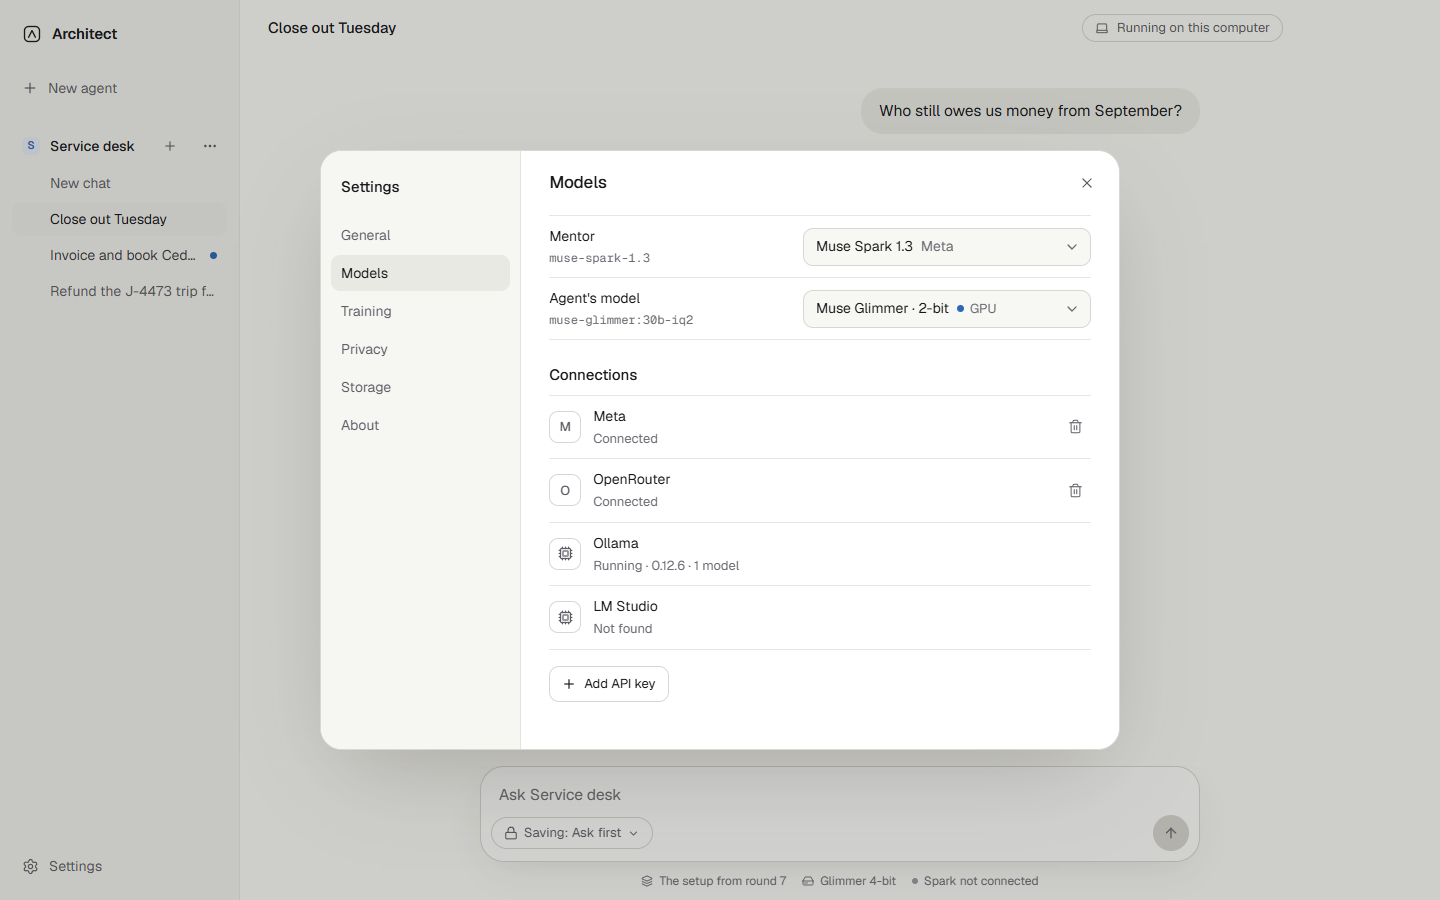
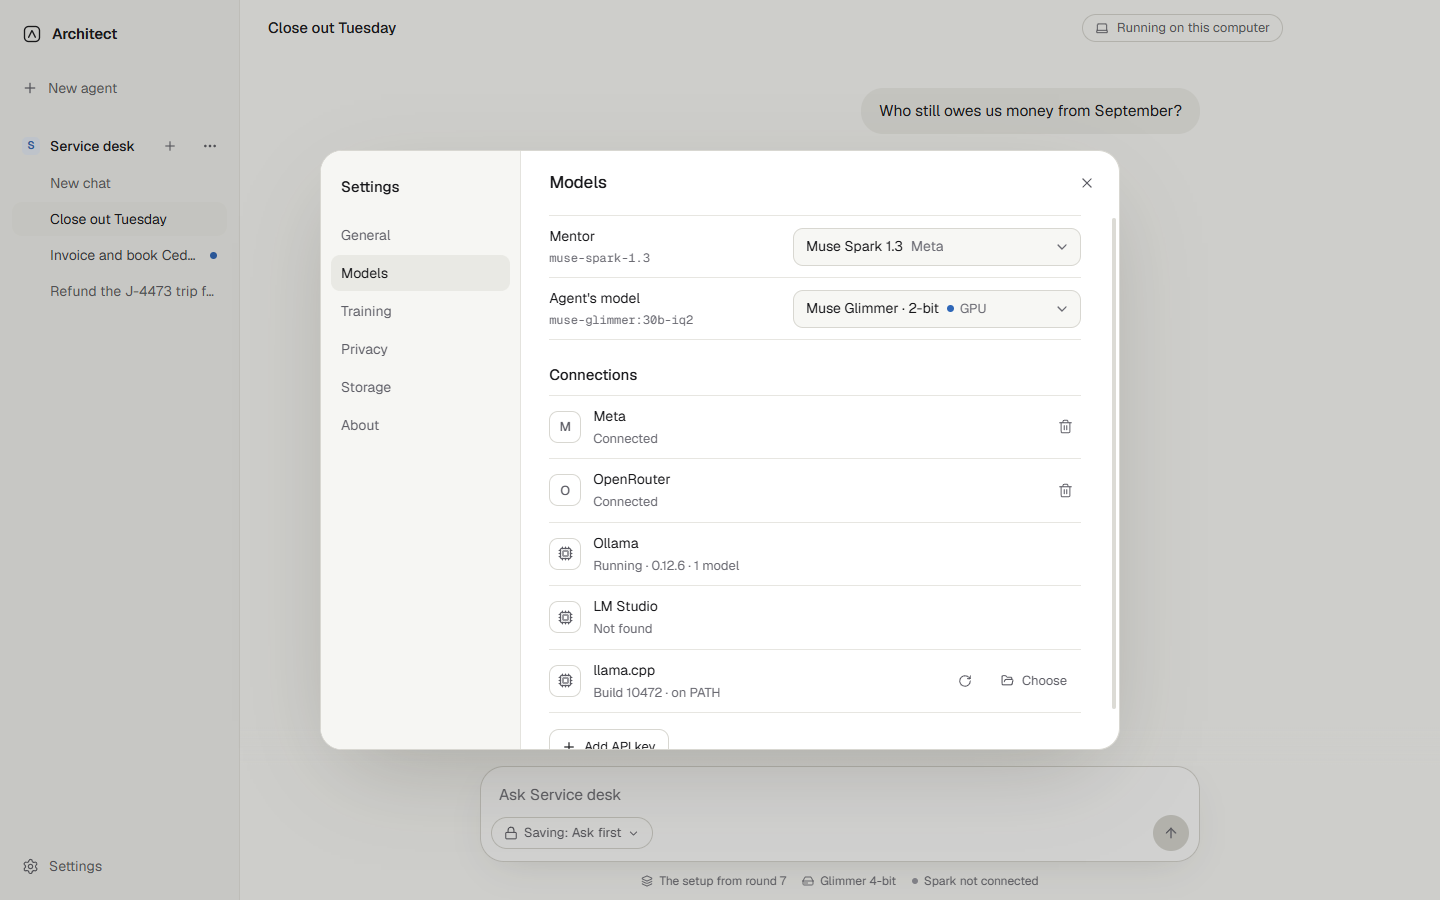
docs: the review's fixes in decision 041 and progress, and Settings with the llama.cpp row

diff --git a/docs/DECISIONS.md b/docs/DECISIONS.md
@@ -321,10 +321,11 @@ An ask-mode write can fail instead of waiting: a message sent with `approvals: '
 **Context.** Decisions 031 and 035 built the adapter runtime, and 038 named an adapter the way that runtime loads it, but nothing served one: a package with an adapter was refused at import, a version with one never opened, and the installation checks compared the adapter's `base_digest` with the digest Ollama's API reports, which Ollama derives from the model's manifest, not from its GGUF weights. The CLI will run graduates through the same agent host as the workspace. This refines 035 and 038.
 **Decision.**
 - *Which runtime.* The version decides it, not the installation. A version with an adapter runs on llama.cpp, with the base from Ollama's store under the name its installation gives it; a version without one runs on the installation's runtime, as before. So the installation of a version with an adapter stays bound to Ollama (`runtime: 'ollama'`, the base's name in Ollama's store), `llama.cpp` stays out of `BINDABLE_RUNTIMES`, and one agent rolls back from a version with an adapter to one without, or the other way, with nothing rebound. A version with an adapter whose installation names another runtime needs attention and isn't opened. This replaces 038's reading that such an installation would serve its model with llama.cpp.
-- *Before serving.* The runtime's request carries the adapter's `base_digest` and its sha256. Before any start, the runtime refuses a base whose GGUF in Ollama's store has another digest and an adapter file whose sha256 differs (worked out again only when the file's size or time changes). The agent host checks both when it opens a version, and a mismatch blocks it with the reason and the way out. A missing llama-server or a base not yet downloaded lets the version open; a reply then says what is missing, so installing it needs no reopening.
+- *Before serving.* The runtime's request carries the adapter's `base_digest` and its sha256, and the version's context length. Before any start, the runtime refuses a base whose GGUF in Ollama's store has another digest and an adapter file whose sha256 differs (worked out again only when the file's size or time changes). The agent host checks both when it opens a version, and a mismatch blocks it with the reason and the way out, which never replaces the model under its name, since other versions may use it: add the exact build under a name of its own and set the agent's model to it. A missing llama-server or a base not yet downloaded lets the version open; a reply then says what is missing, so installing it needs no reopening.
+- *One server, the right files.* A launch names what each adapter file holds (its sha256, else its size and time), so an adapter replaced at the same path, as when an agent is removed and imported again under its id, restarts the server instead of being answered by the one it loaded before. The server runs with the version's context, which its chats' history is sized to. Closing a graduate with an adapter lets go of the server, and the engine's checks that load a model through it take turns, so one never finds it busy with another agent's adapter.
 - *Checks and import.* `assertUsable` accepts a package with an adapter whenever it names an adapter runtime this build serves. Whether this computer can serve it is for the installation checks to say, never a refusal at import. The checks ask the runtime for every problem at once: no llama-server, a build older than 10358 and a base not in the store need attention, each with its fix (set its path or install llama.cpp; update it; download the base, with its size and the exact weights it must have); a base of another build or an adapter that isn't the file installed blocks. A new `adapter-runtime` check names the build found, and the model check's short request goes through llama.cpp with the adapter applied, its server stopped afterwards.
-- *Two runtimes, one set of settings.* The agent host serves and the engine host checks, each with its own llama-server and its own folder (`local-runtime/workspace`, `local-runtime/engine`), since each stops a server it finds in its folder answering to its key. Both read the same settings at every start: the llama-server path, quiet mode's thread cap, and the Ollama whose models are unloaded first (the default student's), and both stop after 10 idle minutes, as 035 says. Main sends the agent host its settings with `host.configure` before any graduate opens and again on every change; the engine gets them in its start and settings messages. `createAgentHost` requires a runtime, so the CLI passes its own (`hostAdapterRuntime`, folder `local-runtime/cli`) and serves adapters the same way.
+- *Two runtimes, one set of settings.* The agent host serves and the engine host checks, each with its own llama-server and its own folder (`local-runtime/workspace`, `local-runtime/engine`), since each stops a server it finds in its folder answering to its key. Both read the same settings at every start: the llama-server path, quiet mode's thread cap, and the Ollama whose models are unloaded first (the default student's, when it is on this computer), and both stop after 10 idle minutes, as 035 says. Main sends the agent host its settings with `host.configure` before any graduate opens and again on every change; the engine gets them in its start and settings messages. `createAgentHost` requires a runtime, so the CLI passes its own (`hostAdapterRuntime`, folder `local-runtime/cli`) and serves adapters the same way.
 - *Quitting.* Main asks the agent host to stop instead of killing it, so it stops its llama-server before it exits. A server left behind by a crash is still stopped by the next start (035).
 - *The setting.* The renderer can read `llamaServerPath` but not write it: Architect runs that program, so only a file the user picked in a dialog becomes it (`connections.chooseLlamaServer`). Settings › Models lists llama.cpp with its build, as too old with how to update it, or with what is missing, and checks it again on demand. The workspace's status line says "LoRA adapter", or "Stand-in adapter" for one from the stand-in backend.
 - *Tests.* The runtime's `command`, the stand-in llama-server, now has its build checked like any other, so a test can make it too old. In the app, the stand-in runs through `ARCHITECT_LLAMA_SERVER_COMMAND`, a launch switch for tests only.
-**Consequences.** A graduate with an adapter imports, opens and answers wherever llama-server 10358 or newer and the exact base are, in the workspace and through the agent host the CLI will share; A01 still waits on a real adapter. Not handled yet: an installation check that loads the model starts a second llama-server while the workspace's may be running, and after an adapter reply llama-server keeps the GPU for up to 10 idle minutes, which an Ollama graduate's next replies would share.
+**Consequences.** A graduate with an adapter imports, opens and answers wherever llama-server 10358 or newer and the exact base are, in the workspace and through the agent host the CLI will share; A01 still waits on a real adapter. Not handled yet: an installation check that loads the model starts the engine's llama-server while the workspace's may be running, and after an adapter reply llama-server keeps the GPU for up to 10 idle minutes, which an Ollama graduate's next replies would share.

diff --git a/docs/PROGRESS.md b/docs/PROGRESS.md
@@ -11,6 +11,7 @@ Dated log, newest first. Each entry: what was done, what's next, open issues, ri
 - The agent host and the engine host each have their own llama-server (`local-runtime/workspace`, `local-runtime/engine`), configured from settings: the path, quiet mode's thread cap, the Ollama to unload, the 10-minute idle stop. `createAgentHost` now requires a runtime, so the CLI serves adapters the same way. The agent host stops its llama-server before it exits on quit.
 - Settings › Models has a llama.cpp row: its build, too old with how to update, or what is missing, a check, and a program chosen in a file dialog (the only way the path changes). The workspace's status line says "LoRA adapter", or "Stand-in adapter".
 - Found and fixed on the way: the checks compared an adapter's GGUF digest with the digest Ollama's API reports, which comes from the manifest (GOTCHAS).
+- An independent review of the diff found six problems, all fixed with tests: an agent removed and imported again under its id could be answered by the server that had loaded its old adapter from the same path (now the launch names each file's sha256, and closing a graduate lets go of the server); llama-server always ran with a 16K context, whatever the version's; two agents' model checks at once found the engine's one server busy (they now take turns); Settings hid the way back to PATH when a chosen program had gone; a default student on another computer's Ollama would have failed every adapter start; and three messages pointed to the wrong fix (replacing a base other versions use, a skipped request blamed on the model, a models folder setting the app doesn't have).
 - Tests with the stand-in llama-server and stand-in adapters: serving with per-request scales, the digest and sha256 refusals, import and checks with and without llama-server, too old and another build, rollback restoring the matching adapter and after a restart, the offline guard with an adapter version (every connection loopback, llama-server gone with the host), and a hidden e2e spec in `agent-host.spec.ts` (a package with an adapter imports ready, opens, answers through the stand-in, and shows "Stand-in adapter"; no stand-in outlives the app).
 
 **Next**
@@ -18,7 +19,7 @@ Dated log, newest first. Each entry: what was done, what's next, open issues, ri
 - A real adapter on the 2-bit build once a training job has made one and the owner allows GPU time.
 
 **Open issues**
-- An installation check that loads the model starts a second llama-server while the workspace's may be running; on a 12 GB card the second would run out of memory and the check would say so.
+- An installation check that loads the model starts the engine's llama-server while the workspace's may be running; on a 12 GB card the second would run out of memory and the check would say so.
 - After an adapter reply llama-server keeps the GPU until it has been idle 10 minutes; an Ollama graduate answering meanwhile shares the card.
 
 ## 2026-10-28 (Tue), graduate versions and portable packages
